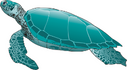
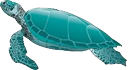
added more fishes

diff --git a/src/components/Timeline.jsx b/src/components/Timeline.jsx
@@ -2,7 +2,9 @@ import navbarIcons from "../assets/navbarIcons.png";
 import { useState, useEffect } from "react";
 import { Link, animateScroll as scroll } from "react-scroll";
 import fishesImg from "../assets/fishes.png";
-
+import rayImg from "../assets/ikan-pari.png";
+import turtleImg from "../assets/penyu.png";
+import jellyfishImg from "../assets/ubur.png";
 
 const Timeline = () => {
   return (
@@ -14,11 +16,26 @@ const Timeline = () => {
           d="M0,288L48,266.7C96,245,192,203,288,186.7C384,171,480,181,576,170.7C672,160,768,128,864,128C960,128,1056,160,1152,160C1248,160,1344,128,1392,112L1440,96L1440,320L1392,320C1344,320,1248,320,1152,320C1056,320,960,320,864,320C768,320,672,320,576,320C480,320,384,320,288,320C192,320,96,320,48,320L0,320Z"
         ></path>
       </svg>
-      <section id="timeline" class="bg-gradient-to-b from-[#75b8fa] to-[#0D839E] to-90% ">
-      <img
+      <section
+        id="timeline"
+        class="bg-gradient-to-b from-[#75b8fa] to-[#0D839E] to-90% relative"
+      >
+        <img
           src={fishesImg}
           alt=""
-          className="absolute right-0 h-52 rotate-90"
+          className="absolute right-0 h-40 rotate-90"
+        />
+
+
+        <img
+          src={rayImg}
+          alt=""
+          className="absolute top-5 left-10 h-32 md:h-48"
+        />
+        <img
+          src={turtleImg}
+          alt=""
+          className="absolute top-80 left-10 h-20 scale-x-[-1]"
         />
         <div
           class="mx-auto max-w-screen-xl "
@@ -49,14 +66,14 @@ const Timeline = () => {
                   Kunjungan ke Panti Asuhan
                 </h3>
                 <Link
-                to="kunjungan"
-                smooth
-                duration={500}
-                spy={true}
-                offset={-100}
-                className="inline-flex items-center mt-2 px-4 py-2 cursor-pointer text-sm font-medium text-gray-900 bg-white border border-gray-200 rounded-lg hover:bg-gray-100  focus:z-10 focus:ring-4 focus:outline-none focus:ring-gray-100 focus:text-blue-700"
-              >
-                List Panti Asuhan
+                  to="kunjungan"
+                  smooth
+                  duration={500}
+                  spy={true}
+                  offset={-100}
+                  className="inline-flex items-center mt-2 px-4 py-2 cursor-pointer text-sm font-medium text-gray-900 bg-white border border-gray-200 rounded-lg hover:bg-gray-100  focus:z-10 focus:ring-4 focus:outline-none focus:ring-gray-100 focus:text-blue-700"
+                >
+                  List Panti Asuhan
                   <svg
                     class="w-3 h-3 ms-2 rtl:rotate-180"
                     aria-hidden="true"
@@ -72,7 +89,7 @@ const Timeline = () => {
                       d="M1 5h12m0 0L9 1m4 4L9 9"
                     />
                   </svg>
-              </Link>
+                </Link>
               </li>
               <li class="mb-10 ms-4">
                 <div class="absolute w-3 h-3  mt-1 -start-9">
@@ -93,14 +110,14 @@ const Timeline = () => {
                   Pengabdian Masyarakat di Pantai
                 </h3>
                 <Link
-                to="daftarpantai"
-                smooth
-                duration={500}
-                spy={true}
-                offset={-100}
-                className="inline-flex items-center mt-2 px-4 py-2 cursor-pointer text-sm font-medium text-gray-900 bg-white border border-gray-200 rounded-lg hover:bg-gray-100  focus:z-10 focus:ring-4 focus:outline-none focus:ring-gray-100 focus:text-blue-700"
-              >
-                Daftar Pantai
+                  to="daftarpantai"
+                  smooth
+                  duration={500}
+                  spy={true}
+                  offset={-100}
+                  className="inline-flex items-center mt-2 px-4 py-2 cursor-pointer text-sm font-medium text-gray-900 bg-white border border-gray-200 rounded-lg hover:bg-gray-100  focus:z-10 focus:ring-4 focus:outline-none focus:ring-gray-100 focus:text-blue-700"
+                >
+                  Daftar Pantai
                   <svg
                     class="w-3 h-3 ms-2 rtl:rotate-180"
                     aria-hidden="true"
@@ -116,7 +133,7 @@ const Timeline = () => {
                       d="M1 5h12m0 0L9 1m4 4L9 9"
                     />
                   </svg>
-              </Link>
+                </Link>
               </li>
             </ol>
           </div>

diff --git a/src/components/BentukKegiatanLG.jsx b/src/components/BentukKegiatanLG.jsx
@@ -41,13 +41,13 @@ const BentukKegiatanLG = () => {
         </h1>
       </div>
 
-      <div class="flex justify-center flex-wrap gap-10 ">
+      <div class="flex justify-center flex-wrap gap-10 mb-52">
         {pantaiData.map((pantai) => {
           return (
             <a
               href={pantai.map}
               target="_blank"
-              class="max-w-sm overflow-hidden rounded-lg p-5 mb-52 shadow-lg cursor-pointer hover:underline"
+              class="max-w-sm overflow-hidden rounded-lg p-5  shadow-lg cursor-pointer hover:underline"
             >
               <img
                 class="w-full aspect-square rounded-lg"

diff --git a/src/components/LatarBelakang.jsx b/src/components/LatarBelakang.jsx
@@ -4,16 +4,6 @@ import fishesImg from "../assets/fishes.png";
 export default function LatarBelakang() {
   return (
     <div id="latarBelakang" className="mx-auto max-w-6xl">
-      <img
-        src={fishesImg}
-        alt=""
-        className="absolute bottom-0 left-0 h-16 w-16 -z-10"
-      />
-      <img
-        src={fishesImg}
-        alt=""
-        className="absolute right-0 h-52 rotate-90 -z-10"
-      />
       <div class="flex justify-center my-20 max-md:mx-8 z-50">
         <h1 class="mb-4 text-3xl font-extrabold tracking-tight leading-none text-default md:text-3xl lg:text-5xl text-center">
           Latar Belakang Acara

diff --git a/src/components/Jumbotron.jsx b/src/components/Jumbotron.jsx
@@ -38,7 +38,7 @@ const Jumbotron = () => {
             key={index}
             src={image}
             alt={`Slide ${index + 1}`}
-            className={`absolute top-0 left-0 w-full h-full transition-opacity duration-1000 ${
+            className={`absolute top-0 left-0 w-full h-full transition-opacity duration-1000 brightness-50 object-cover ${
               index === currentIndex ? "opacity-100" : "opacity-0"
             }`}
           />
